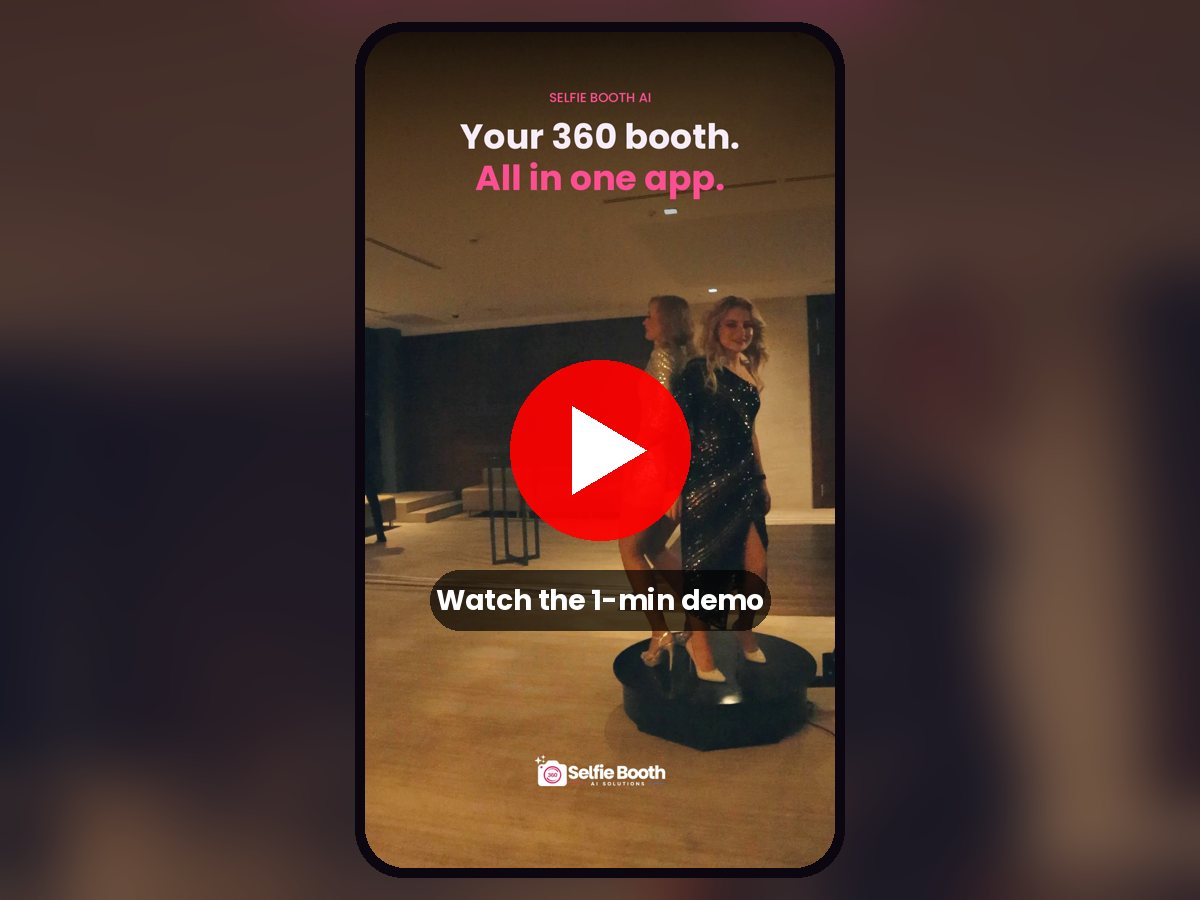
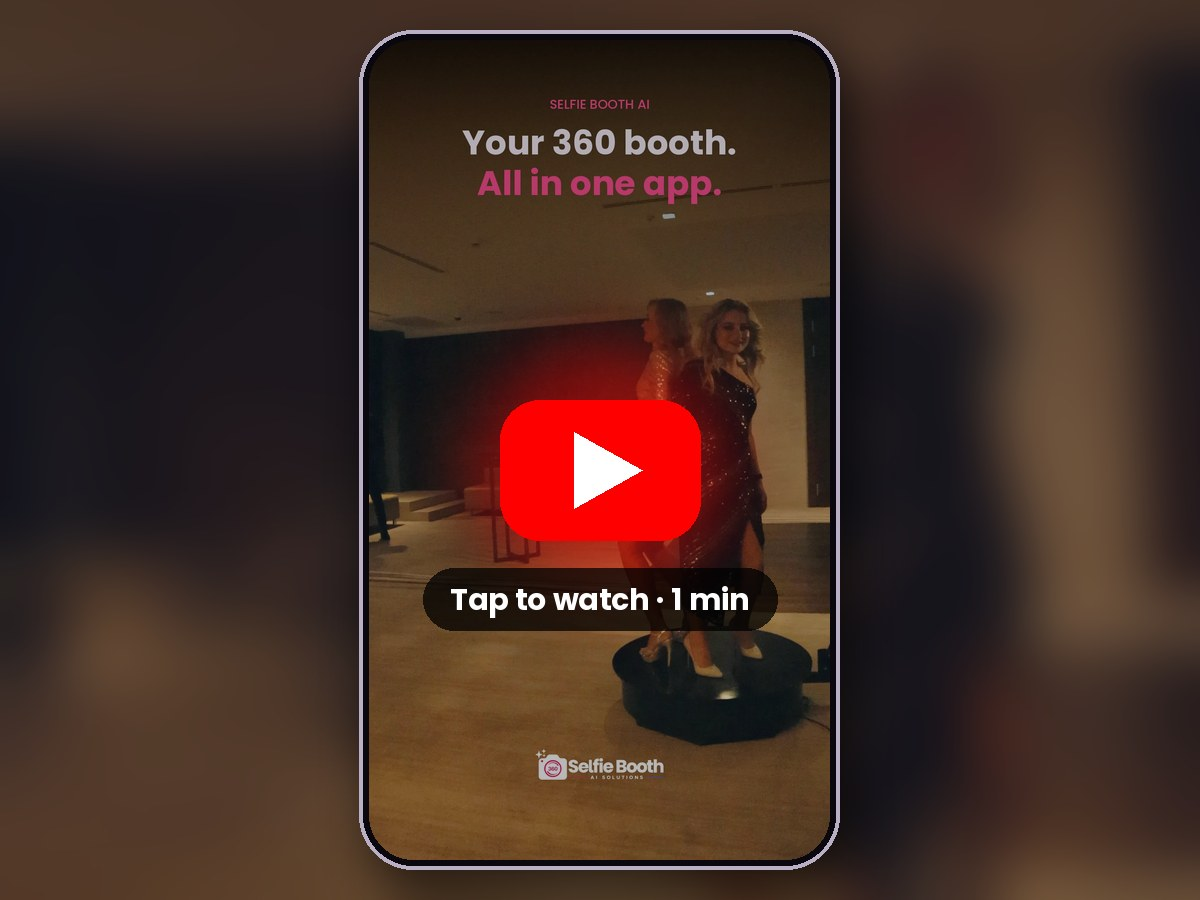
Email: single clear play on the video, fuchsia App Store button
Claude-Session: https://claude.ai/code/session_018ie1qHkqMnphK932PzbGXo

diff --git a/email/update.html b/email/update.html
@@ -15,13 +15,10 @@
 </td></tr>
 <tr><td align="center" style="background:#1f1229;background-image:linear-gradient(180deg,#2a1326 0%,#1f1229 100%);padding:30px 34px 30px">
   <a href="https://youtube.com/shorts/aUntFLscVjU" target="_blank" style="display:block;text-decoration:none"><img src="https://selfieapp.github.io/selfiebooth-tutorials/email/img/hero.jpg" width="532" alt="Watch the 1-minute demo on YouTube" style="display:block;width:100%;max-width:532px;height:auto;border:0;border-radius:20px"></a>
-  <div style="height:22px;line-height:22px">&nbsp;</div>
-  <table role="presentation" cellpadding="0" cellspacing="0" style="margin:0 auto"><tr><td style="border-radius:999px;border:2px solid #ffffff">
-<a href="https://youtube.com/shorts/aUntFLscVjU" target="_blank" style="display:inline-block;padding:13px 32px;font-family:'Poppins',Helvetica,Arial,sans-serif;font-size:16px;font-weight:700;color:#ffffff;text-decoration:none;border-radius:999px">&#9654;&nbsp; Watch the video</a></td></tr></table>
 </td></tr>
-<tr><td align="center" style="padding:26px 34px 4px">
-  <table role="presentation" cellpadding="0" cellspacing="0" style="margin:0 auto"><tr><td style="border-radius:999px;background:#111116">
-<a href="https://selfieboothapp.com" target="_blank" style="display:inline-block;padding:15px 34px;font-family:'Poppins',Helvetica,Arial,sans-serif;font-size:16px;font-weight:700;color:#ffffff;text-decoration:none;border-radius:999px"><img src="https://selfieapp.github.io/selfiebooth-tutorials/email/img/apple-white.png" width="18" height="18" alt="" style="display:inline-block;width:18px;height:18px;border:0;vertical-align:-3px">&nbsp; Download on the App Store</a></td></tr></table>
+<tr><td align="center" style="padding:30px 34px 4px">
+  <table role="presentation" cellpadding="0" cellspacing="0" style="margin:0 auto"><tr><td style="border-radius:999px;background:#e31356;background-image:linear-gradient(135deg,#e31356 0%,#7a1f6b 100%)">
+<a href="https://selfieboothapp.com" target="_blank" style="display:inline-block;padding:16px 36px;font-family:'Poppins',Helvetica,Arial,sans-serif;font-size:17px;font-weight:700;color:#ffffff;text-decoration:none;border-radius:999px"><img src="https://selfieapp.github.io/selfiebooth-tutorials/email/img/apple-white.png" width="18" height="18" alt="" style="display:inline-block;width:18px;height:18px;border:0;vertical-align:-3px">&nbsp; Download on the App Store</a></td></tr></table>
 </td></tr>
 <tr><td style="padding:22px 20px 6px" align="center">
   <h2 style="margin:0;font-family:'Poppins',Helvetica,Arial,sans-serif;font-size:24px;line-height:30px;font-weight:800;color:#111116">More wow. <span style="color:#e31356">Less work.</span></h2>
